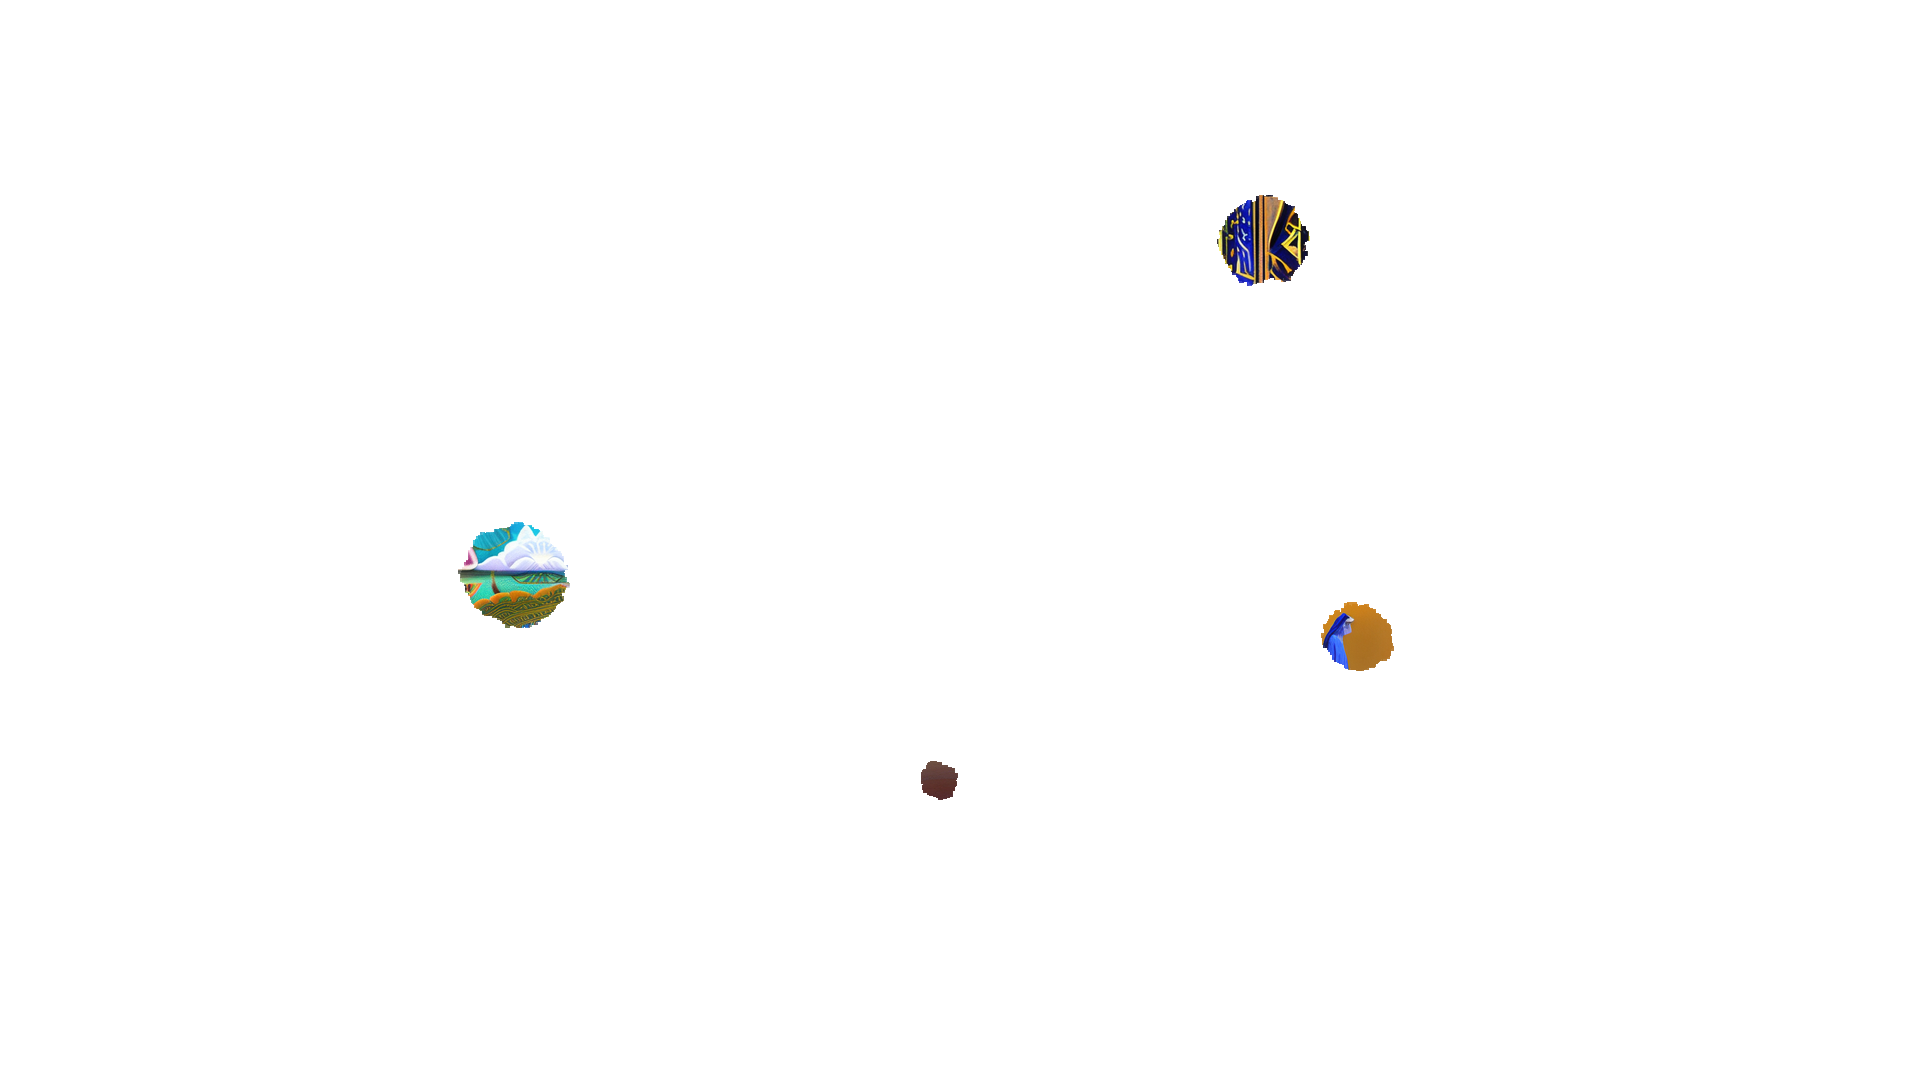
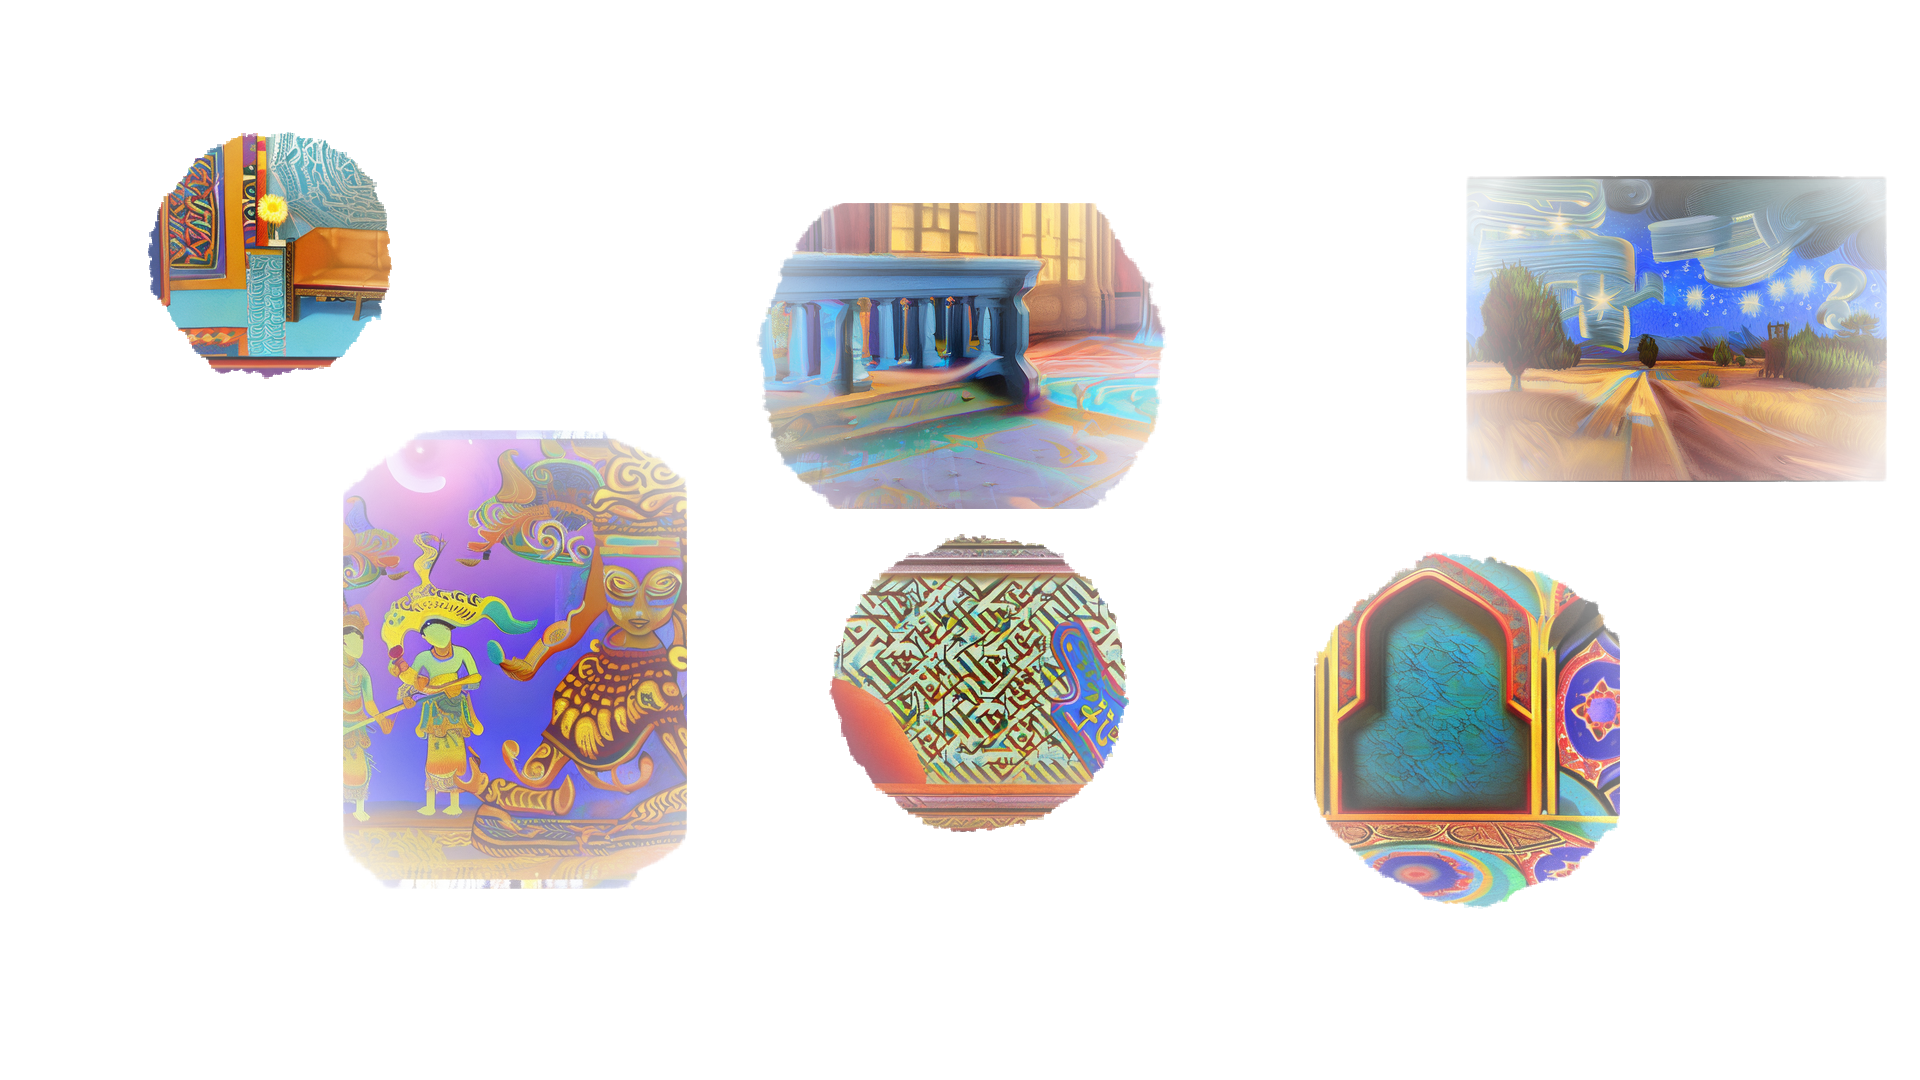
testing and fix drawing

diff --git a/gui_app.py b/gui_app.py
@@ -3,6 +3,7 @@ from tkinter import filedialog, messagebox
 from PIL import Image, ImageTk, ImageOps
 import threading
 import os
+import time
 
 # Import from project.py
 from project import automate_from_image_file, canvas, CANVAS_WIDTH, CANVAS_HEIGHT
@@ -56,8 +57,20 @@ class CulturalAIGUI:
 
     def update_canvas_preview(self, canvas):
         canvas.save("latest_canvas_preview.png")
+        
+        # time.sleep(0.05)
+        
+        # preview_img = Image.open("latest_canvas_preview.png").convert("RGBA")
+        
+        time.sleep(0.05)  # Small delay to ensure write is completed
 
-        preview_img = Image.open("latest_canvas_preview.png").convert("RGBA")
+        # Safely open and fully load the image before using
+        with open("latest_canvas_preview.png", "rb") as f:
+            preview_img = Image.open(f)
+            preview_img.load()  # Force the image to load fully into memory
+
+        preview_img = preview_img.convert("RGBA")
+        
         preview_img = ImageOps.contain(preview_img, (960, 540), method=Image.LANCZOS)
         preview_tk = ImageTk.PhotoImage(preview_img)
         self.canvas_preview_label.config(image=preview_tk)

diff --git a/project.py b/project.py
@@ -541,14 +541,19 @@ def show_live_canvas(canvas):
     return True  # placeholder, no-op now
 
 def run_live_drawing_loop(steps=5000, delay=0.01, update_callback=None):
+    # for step in range(steps):
+    #     for agent in agents:
+    #         agent.update(canvas)
+        
     for step in range(steps):
         for agent in agents:
-            agent.update(canvas)
+            for _ in range(5):  # range increase drawing speed
+                agent.update(canvas)
 
         if update_callback and step % 5 == 0:
             update_callback(canvas)  # Push update to GUI
 
-        time.sleep(delay)
+        # time.sleep(delay)
 
     canvas.save("final_collaborative_canvas.png")
     print("Canvas saved as final_collaborative_canvas.png")
